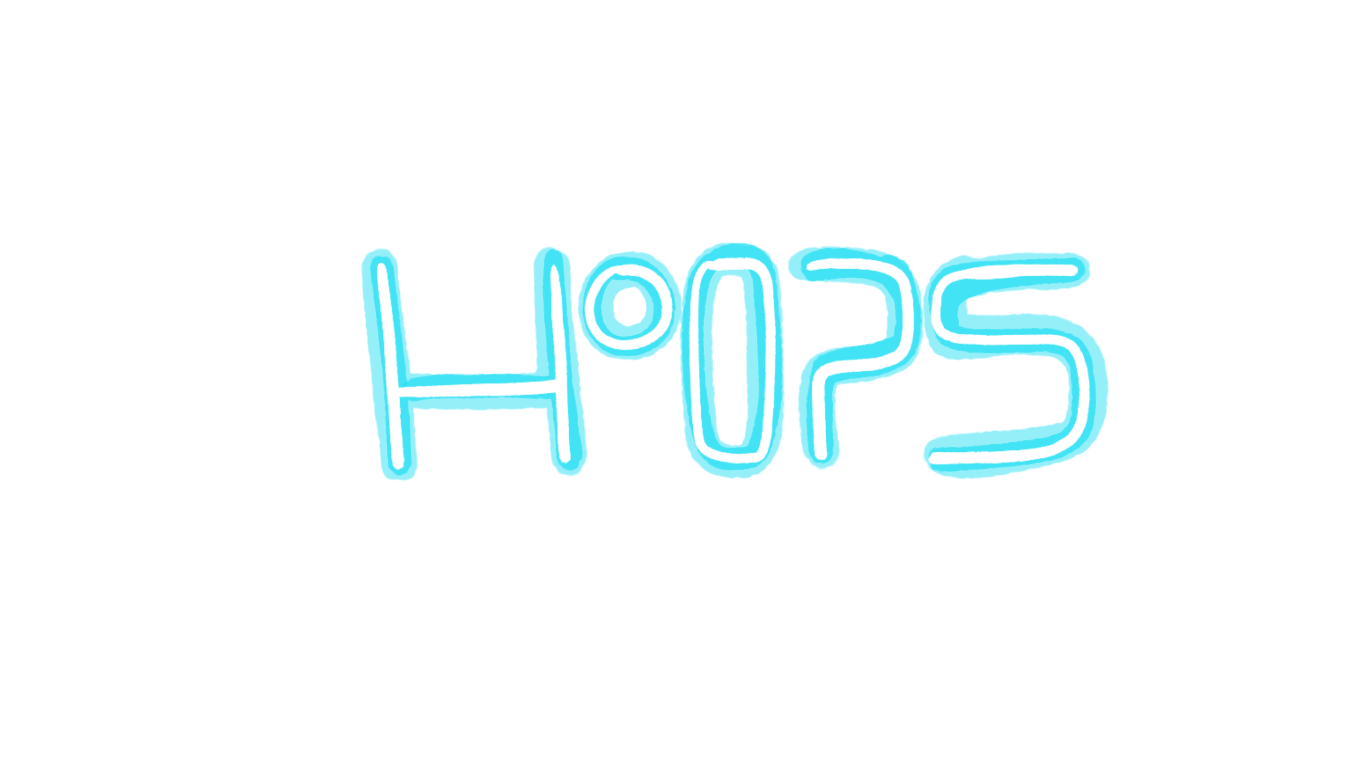
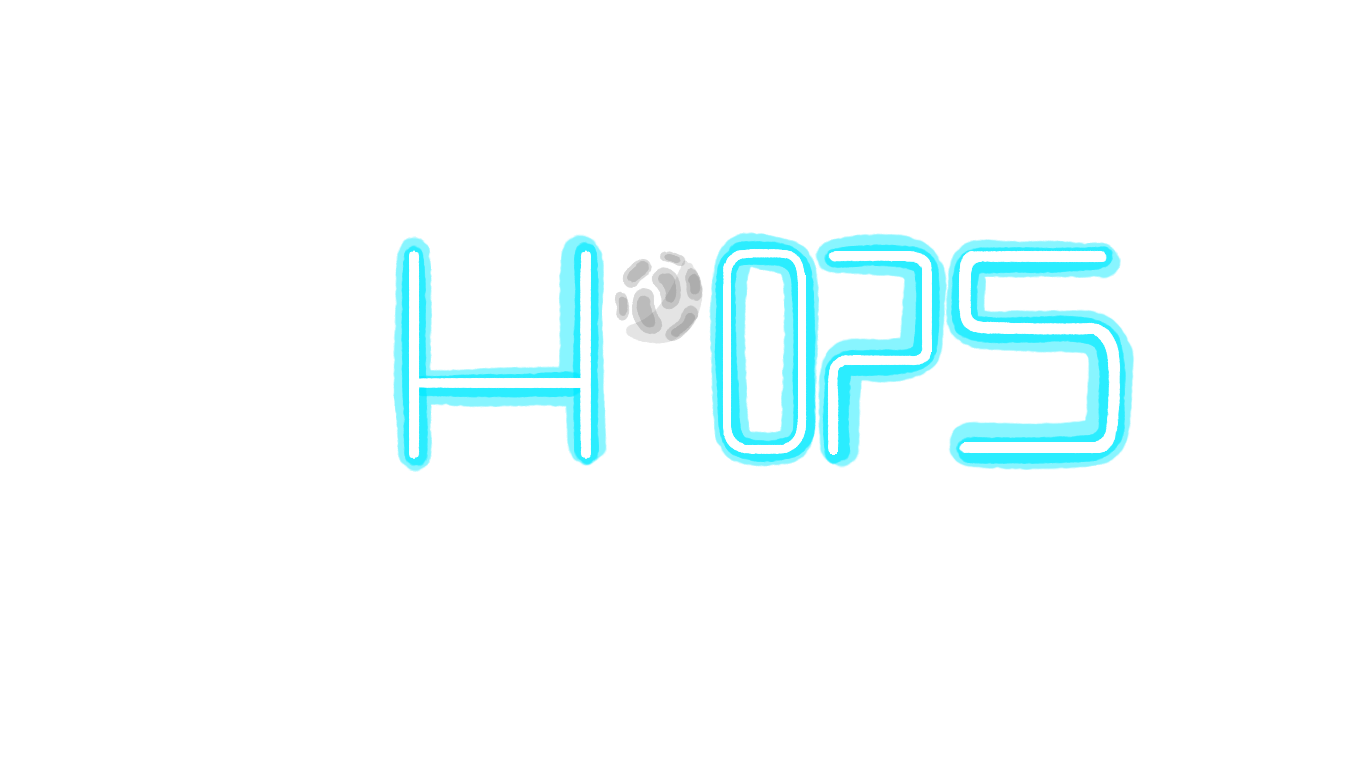
Incorporate new art

Changed region(s): [[0.246, 0.2812, 0.8302, 0.625]]

diff --git a/src/titlescreen.rs b/src/titlescreen.rs
@@ -18,7 +18,7 @@ pub struct TitlescreenMoon;
 pub struct TitlescreenParent;
 
 /// In World coords
-pub const PLAY_BTN_LOCATION: Vec2 = Vec2::new(-54., 77.);
+pub const PLAY_BTN_LOCATION: Vec2 = Vec2::new(-26., 88.);
 
 /// Spawns the titlescreen and play btn
 pub fn titlescreen_plugin(app: &mut App) {
@@ -28,7 +28,7 @@ pub fn titlescreen_plugin(app: &mut App) {
 /// Spawns the Titlescreen, Which will call transition to first planet on play_btn click
 fn spawn_title_screen(mut commands: Commands, asset_server: Res<AssetServer>) {
     let art_image = asset_server.load("titlescreen/art.png");
-    let play_btn_image = asset_server.load("titlescreen/play-button.png");
+    let play_btn_image = asset_server.load("titlescreen/play-btn.png");
     let initial_moon_image = asset_server.load("titlescreen/initial-moon.png");
 
     let parent = commands

diff --git a/src/transition_to_first_planet.rs b/src/transition_to_first_planet.rs
@@ -9,7 +9,7 @@ use bevy_tweening::{Animator, Tracks};
 
 use tweens::*;
 
-pub const FIRST_PLANET_INITIAL_SCALE: f32 = 0.35;
+pub const FIRST_PLANET_INITIAL_SCALE: f32 = 0.19;
 
 /// Keep track of moon buttons, to brin them in after animation
 #[derive(Resource, Deref, DerefMut)]
